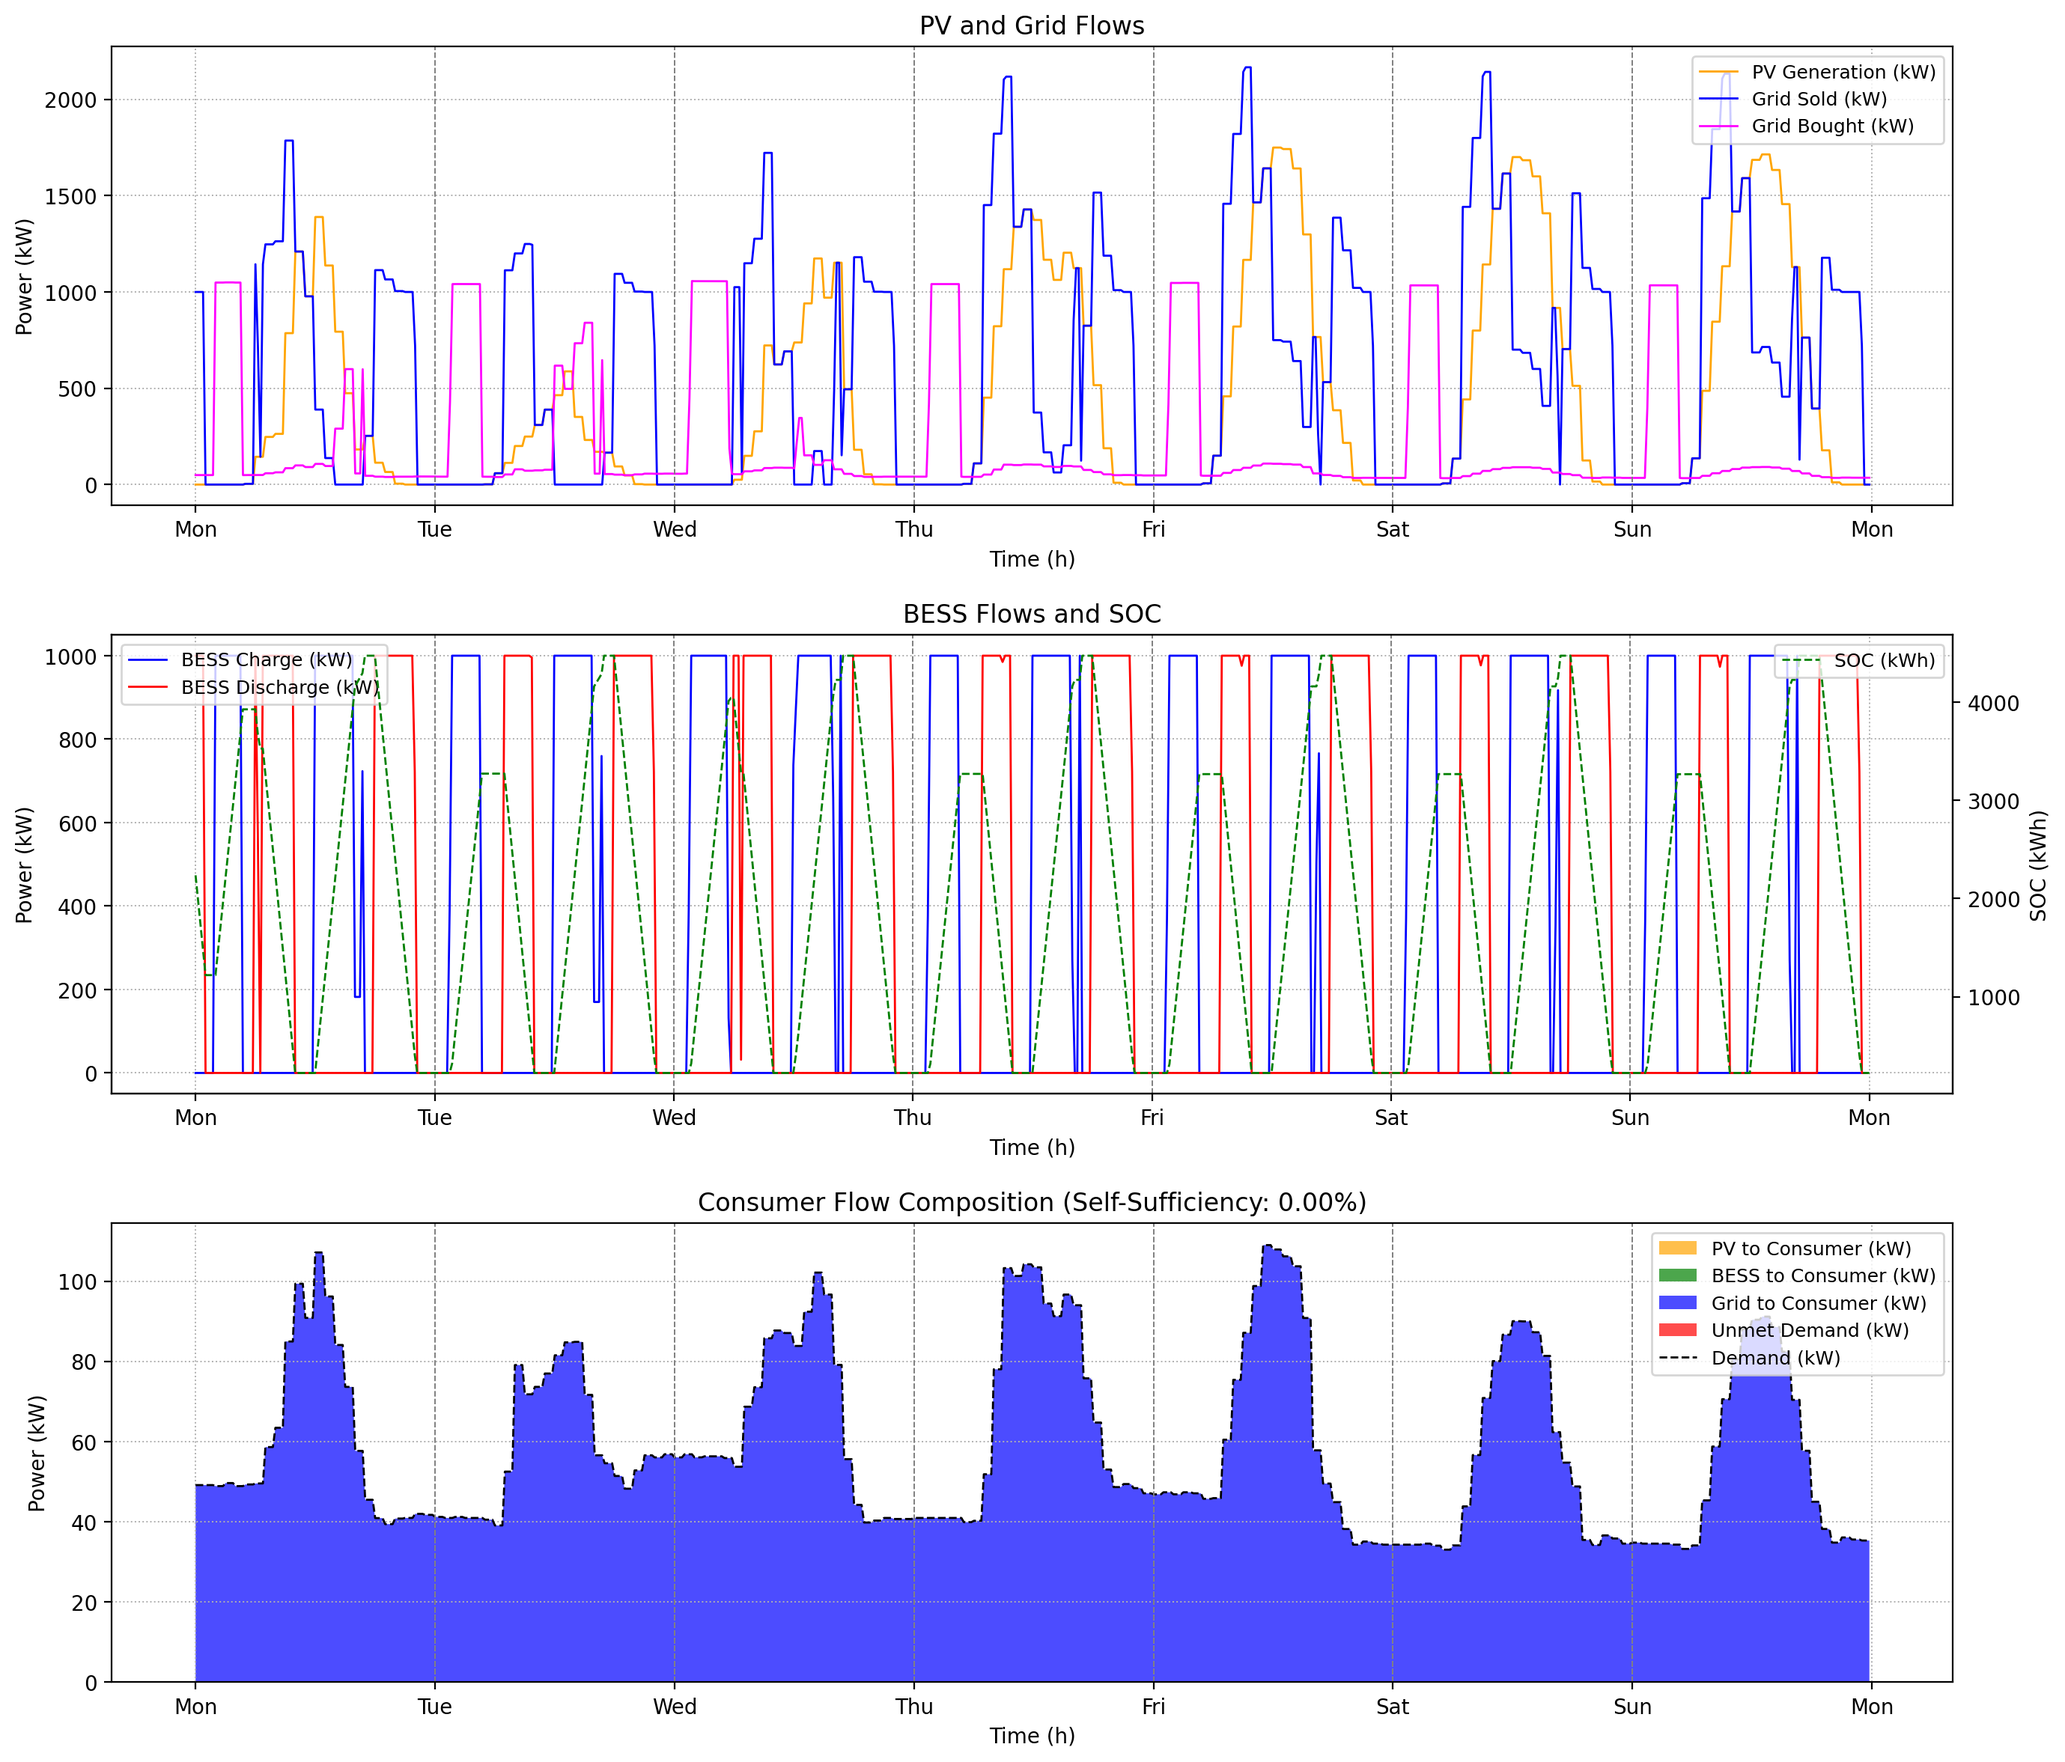
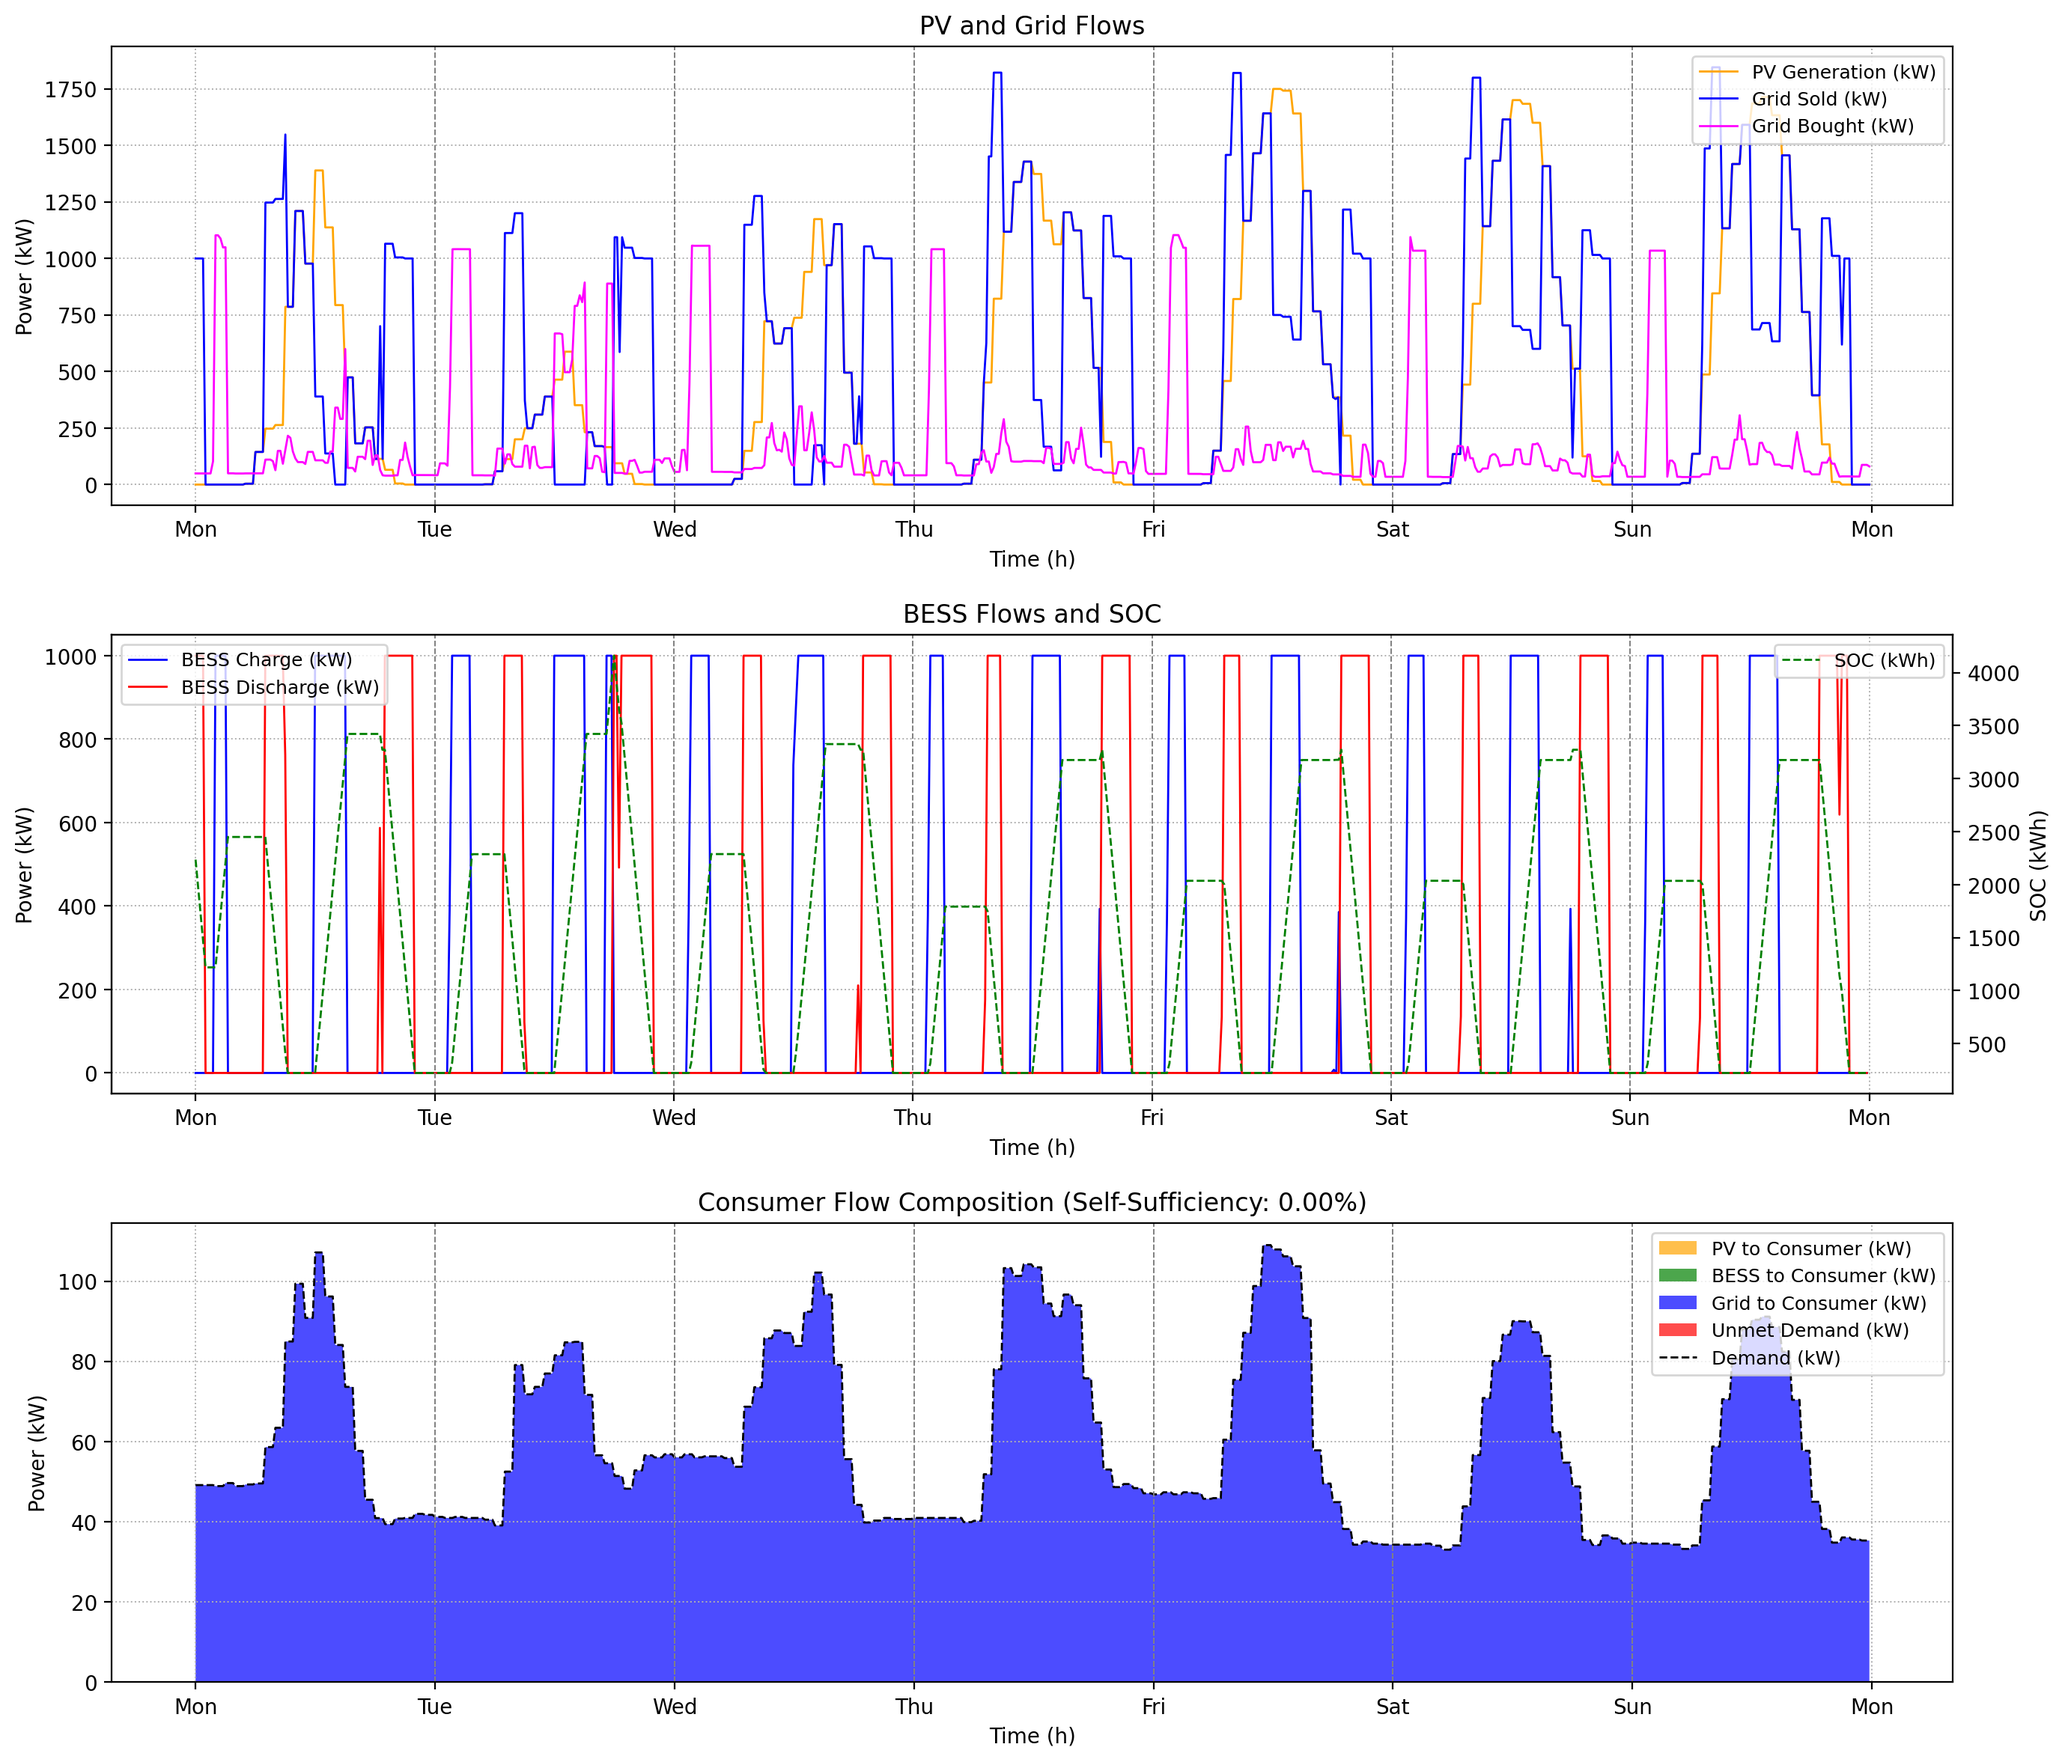
MPC and Main 7 Days counter !!

diff --git a/Computing Files/plots.py b/Computing Files/plots.py
@@ -4,11 +4,11 @@ import os
 
 def plot_energy_flows(results, data, revenues, save_dir=None):
     """
-    Plot PV, grid, BESS flows, and consumer demand composition.
+    Plot PV, grid, BESS flows, consumer demand composition, and EV demand composition.
     """
-    plt.figure(figsize=(14, 12))
+    plt.figure(figsize=(14, 16))
     # Subplot 1: PV and Grid Flows
-    plt.subplot(3, 1, 1)
+    plt.subplot(4, 1, 1)
     plt.plot(data['time_steps'], data['pv_power'], label='PV Generation (kW)', color='orange', linewidth=1)
     plt.plot(data['time_steps'], results['P_grid_sold'], label='Grid Sold (kW)', color='blue', linewidth=1)
     plt.plot(data['time_steps'], results['P_grid_bought'], label='Grid Bought (kW)', color='magenta', linewidth=1)
@@ -21,7 +21,7 @@ def plot_energy_flows(results, data, revenues, save_dir=None):
     for d in range(1, 7):
         plt.axvline(d * 24, color='gray', linestyle='--', linewidth=0.7)
     # Subplot 2: BESS Flows and SOC
-    plt.subplot(3, 1, 2)
+    plt.subplot(4, 1, 2)
     ax1 = plt.gca()
     ax1.plot(data['time_steps'], results['P_BESS_charge'], label='BESS Charge (kW)', color='blue', linewidth=1)
     ax1.plot(data['time_steps'], results['P_BESS_discharge'], label='BESS Discharge (kW)', color='red', linewidth=1)
@@ -39,7 +39,7 @@ def plot_energy_flows(results, data, revenues, save_dir=None):
     ax2.set_ylabel('SOC (kWh)')
     ax2.legend(loc='upper right', fontsize=9)
     # Subplot 3: Consumer Flow Composition
-    plt.subplot(3, 1, 3)
+    plt.subplot(4, 1, 3)
     plt.stackplot(data['time_steps'], results['P_PV_consumer_vals'], results['P_BESS_consumer_vals'], results['P_grid_consumer_vals'], results['slack_vals'],
                   labels=['PV to Consumer (kW)', 'BESS to Consumer (kW)', 'Grid to Consumer (kW)', 'Unmet Demand (kW)'],
                   colors=['orange', 'green', 'blue', 'red'], alpha=0.7)
@@ -47,6 +47,23 @@ def plot_energy_flows(results, data, revenues, save_dir=None):
     plt.xlabel('Time (h)')
     plt.ylabel('Power (kW)')
     plt.title(f'Consumer Flow Composition (Self-Sufficiency: {revenues["self_sufficiency"]:.2f}%)')
+    plt.legend(loc='upper right', fontsize=9)
+    plt.grid(True, linestyle=':', linewidth=0.7)
+    plt.xticks(np.arange(0, 168, 24), data['day_labels'])
+    for d in range(1, 7):
+        plt.axvline(d * 24, color='gray', linestyle='--', linewidth=0.7)
+    # Subplot 4: EV Flow Composition
+    plt.subplot(4, 1, 4)
+    P_PV_ev = results.get('P_PV_ev_vals', np.zeros(data['n_steps']))
+    P_BESS_ev = results.get('P_BESS_ev_vals', np.zeros(data['n_steps']))
+    P_grid_ev = results.get('P_grid_ev_vals', np.zeros(data['n_steps']))
+    plt.stackplot(data['time_steps'], P_PV_ev, P_BESS_ev, P_grid_ev,
+                  labels=['PV to EV (kW)', 'BESS to EV (kW)', 'Grid to EV (kW)'],
+                  colors=['orange', 'green', 'blue'], alpha=0.7)
+    plt.plot(data['time_steps'], data.get('ev_demand', np.zeros(data['n_steps'])), label='EV Demand (kW)', color='black', linestyle='--', linewidth=1)
+    plt.xlabel('Time (h)')
+    plt.ylabel('Power (kW)')
+    plt.title(f'EV Flow Composition (Renewable Share: {revenues.get("ev_renewable_share", 0):.2f}%)')
     plt.legend(loc='upper right', fontsize=9)
     plt.grid(True, linestyle=':', linewidth=0.7)
     plt.xticks(np.arange(0, 168, 24), data['day_labels'])

diff --git a/Computing Files/mpc.py b/Computing Files/mpc.py
@@ -170,7 +170,7 @@ class MPC:
         bess_usage = cp.sum(charge + discharge) * self.delta_t
         objective = cp.Maximize(savings + alpha * bess_usage)
         problem = cp.Problem(objective, constraints)
-        problem.solve(solver=cp.GUROBI, verbose=True, MIPGap=0.05, TimeLimit=30)
+        problem.solve(solver=cp.GUROBI, verbose=True, MIPGap=0.1, TimeLimit=10)
         if problem.status == 'optimal':
             try:
                 return {

diff --git a/Computing Files/main_Optimization.py b/Computing Files/main_Optimization.py
@@ -93,7 +93,7 @@ for t in range(data['n_steps']):
 
 # Prepare day labels for plotting
 days = ['Mon', 'Tue', 'Wed', 'Thu', 'Fri', 'Sat', 'Sun']
-data['day_labels'] = [days[(data['start_weekday'] + d) % 7] for d in range(8)]
+data['day_labels'] = [days[(data['start_weekday'] + d) % 7] for d in range(7)]
 
 # Add suffix to distinguish plots
 output_dir = os.path.join(os.path.dirname(os.path.abspath(__file__)), '..', 'Output Files')
